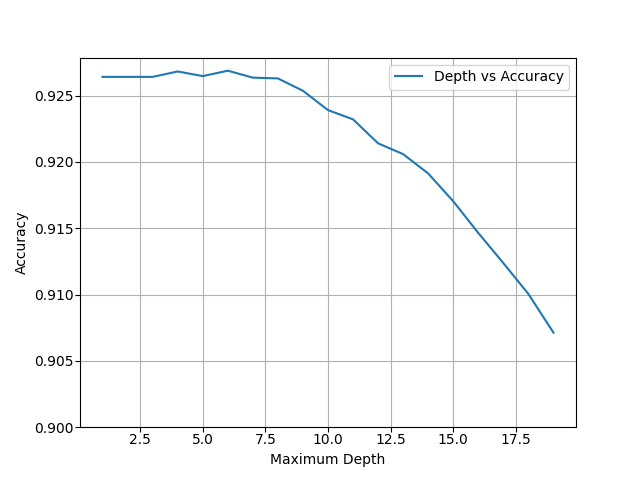
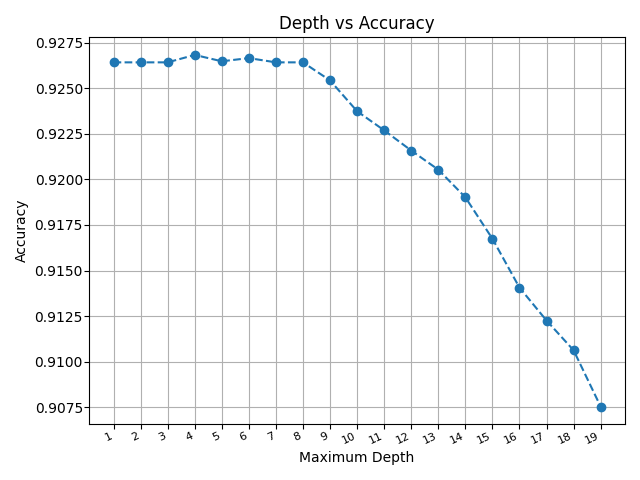
Modification of Visualization using the plot line chart method

diff --git a/project.py b/project.py
@@ -702,37 +702,15 @@ def decision_tree(X_train, X_test, y_train, y_test, df_clean):
 # Parameters
 # decision_tree_results: Dictionary Containing accuracies that need to be plotted
 def decision_tree_visualizaton(decision_tree_results, type):
-    plt.close()
+    plt.close()   
     
     # Visualization based on removing individual columns and their respective accuracy 
-    # plt.plot(decision_tree_results["list_column_removed"], decision_tree_results["list_accuracy_when_column_removed"], label='Column Removed vs Accuracy')
     plot_line_chart(decision_tree_results["list_column_removed"], decision_tree_results["list_accuracy_when_column_removed"], "Column", "Accuracy", "Column Removed vs Accuracy", "analysis_visualization/decision_tree_column_{}.png".format(type))   
-    #  plt.xlabel('Column Removed')  # Label x-axis
-    # plt.ylabel('Accuracy')  # Label y-axis
-    # plt.grid(True)
-    # plt.legend()  # Show plot labels as legend
-    # if type=="without_resampling":
-    #     ymin=0.8
-    # else:
-    #     ymin=0.4    
-    # plt.ylim(ymin=ymin)
-    # plt.savefig('analysis_visualization/decision_tree_column_{}.png'.format(type))  # Save graph
-
     plt.close()
 
     # Visualization based on varying depths and their respective accuracy 
-    plt.plot(decision_tree_results["list_depths"], decision_tree_results["list_accuracy"], label='Depth vs Accuracy')
+    plot_line_chart(decision_tree_results["list_depths"], decision_tree_results["list_accuracy"], "Maximum Depth", "Accuracy", "Depth vs Accuracy", "analysis_visualization/decision_tree_depth_{}.png".format(type))
 
-    plt.xlabel('Maximum Depth')  # Label x-axis
-    plt.ylabel('Accuracy')  # Label y-axis
-    plt.grid(True)
-    plt.legend()  # Show plot labels as legend
-    if type=="without_resampling":
-        ymin=0.9
-    else:
-        ymin=0.3
-    plt.ylim(ymin=ymin)
-    plt.savefig('analysis_visualization/decision_tree_depth_{}.png'.format(type))  # Save graph
 
 
 # Apply KNN algorithm on the dataset and compare how different approaches in implementing the algorithm impacts the accuracy
